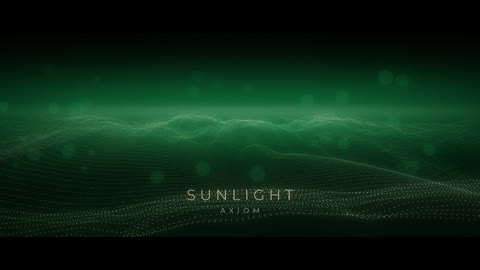
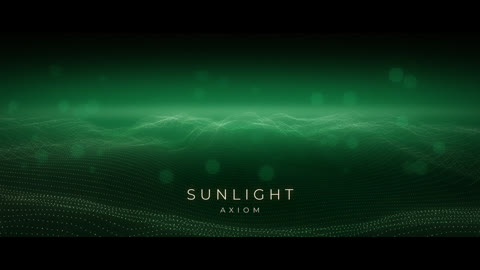
fix: thumbnails after the title fade-in; section beats judged against the whole song
- Preset thumbnails were taken 1 s into a 2 s clip, mid title fade-in and
  mid end fade. They now use a 6 s clip with the moment 3 s in.
- Hz beat ranges in a section were scaled to the section only. Sections now
  carry each range's whole-song scale (worked out by the template's toolkit).

diff --git a/templates/particle-horizon/assets/viz-toolkit.js b/templates/particle-horizon/assets/viz-toolkit.js
@@ -100,10 +100,10 @@
    * Hits and a decaying pulse from how much bands firstBand..lastBand rise each frame.
    * Returns {hits: [[time, strength], ...], pulse: Float32Array (one value per frame)}.
    */
-  function beatTrack(frames, fps, firstBand, lastBand) {
-    var n = frames.length;
-    var rise = new Float64Array(n);
-    for (var i = 1; i < n; i++) {
+  /** How much bands firstBand..lastBand rose since the previous frame, for every frame. */
+  function bandRises(frames, firstBand, lastBand) {
+    var rise = new Float64Array(frames.length);
+    for (var i = 1; i < frames.length; i++) {
       var sum = 0;
       for (var k = firstBand; k <= lastBand; k++) {
         var d = frames[i].b[k] - frames[i - 1].b[k];
@@ -111,8 +111,36 @@
       }
       rise[i] = sum;
     }
-    var scale = Math.max(percentile(rise, 99), 1e-6);
-    for (i = 0; i < n; i++) rise[i] /= scale;
+    return rise;
+  }
+
+  /** The bands a beat range covers, as [first, last]. */
+  function rangeBands(range) {
+    var first = Math.round(bandIndexForHz(range.low));
+    return [first, Math.max(first, Math.round(bandIndexForHz(range.high)))];
+  }
+
+  /**
+   * Each Hz beat range's loudness scale over a whole song. A section of a song carries these
+   * (analysis.beatScales), so its beats are judged against the whole song, as in a full render.
+   */
+  function beatScales(frames) {
+    var scales = {};
+    for (var r = 0; r < BEAT_RANGES.length; r++) {
+      var range = BEAT_RANGES[r];
+      if (range.value === "kick") continue;
+      var bands = rangeBands(range);
+      scales[range.value] = Math.max(percentile(bandRises(frames, bands[0], bands[1]), 99), 1e-6);
+    }
+    return scales;
+  }
+
+  function beatTrack(frames, fps, firstBand, lastBand, scale) {
+    var n = frames.length;
+    var rise = bandRises(frames, firstBand, lastBand);
+    // The bands' smoothed levels are used (the analyzer uses unsmoothed ones); the rule is the same.
+    scale = scale || Math.max(percentile(rise, 99), 1e-6);
+    for (var i = 0; i < n; i++) rise[i] /= scale;
 
     var total = new Float64Array(n + 1);
     for (i = 0; i < n; i++) total[i + 1] = total[i] + rise[i];
@@ -171,9 +199,9 @@
     if (!range) throw new Error("Unknown beat range: " + opts.beatRange);
     var track = null;
     if (range.value !== "kick") {
-      var first = Math.round(bandIndexForHz(range.low));
-      var lastBand = Math.max(first, Math.round(bandIndexForHz(range.high)));
-      track = beatTrack(frames, fps, first, lastBand);
+      var bands = rangeBands(range);
+      var scale = data.beatScales ? data.beatScales[range.value] : undefined;
+      track = beatTrack(frames, fps, bands[0], bands[1], scale);
     }
     var hitList = track ? track.hits : data.hits;
 
@@ -392,6 +420,7 @@
     bandIndexForHz: bandIndexForHz,
     BEAT_RANGES: BEAT_RANGES,
     beatTrack: beatTrack,
+    beatScales: beatScales,
     createAudio: createAudio,
   };
 });

diff --git a/templates/shared/viz-toolkit.js b/templates/shared/viz-toolkit.js
@@ -100,10 +100,10 @@
    * Hits and a decaying pulse from how much bands firstBand..lastBand rise each frame.
    * Returns {hits: [[time, strength], ...], pulse: Float32Array (one value per frame)}.
    */
-  function beatTrack(frames, fps, firstBand, lastBand) {
-    var n = frames.length;
-    var rise = new Float64Array(n);
-    for (var i = 1; i < n; i++) {
+  /** How much bands firstBand..lastBand rose since the previous frame, for every frame. */
+  function bandRises(frames, firstBand, lastBand) {
+    var rise = new Float64Array(frames.length);
+    for (var i = 1; i < frames.length; i++) {
       var sum = 0;
       for (var k = firstBand; k <= lastBand; k++) {
         var d = frames[i].b[k] - frames[i - 1].b[k];
@@ -111,8 +111,36 @@
       }
       rise[i] = sum;
     }
-    var scale = Math.max(percentile(rise, 99), 1e-6);
-    for (i = 0; i < n; i++) rise[i] /= scale;
+    return rise;
+  }
+
+  /** The bands a beat range covers, as [first, last]. */
+  function rangeBands(range) {
+    var first = Math.round(bandIndexForHz(range.low));
+    return [first, Math.max(first, Math.round(bandIndexForHz(range.high)))];
+  }
+
+  /**
+   * Each Hz beat range's loudness scale over a whole song. A section of a song carries these
+   * (analysis.beatScales), so its beats are judged against the whole song, as in a full render.
+   */
+  function beatScales(frames) {
+    var scales = {};
+    for (var r = 0; r < BEAT_RANGES.length; r++) {
+      var range = BEAT_RANGES[r];
+      if (range.value === "kick") continue;
+      var bands = rangeBands(range);
+      scales[range.value] = Math.max(percentile(bandRises(frames, bands[0], bands[1]), 99), 1e-6);
+    }
+    return scales;
+  }
+
+  function beatTrack(frames, fps, firstBand, lastBand, scale) {
+    var n = frames.length;
+    var rise = bandRises(frames, firstBand, lastBand);
+    // The bands' smoothed levels are used (the analyzer uses unsmoothed ones); the rule is the same.
+    scale = scale || Math.max(percentile(rise, 99), 1e-6);
+    for (var i = 0; i < n; i++) rise[i] /= scale;
 
     var total = new Float64Array(n + 1);
     for (i = 0; i < n; i++) total[i + 1] = total[i] + rise[i];
@@ -171,9 +199,9 @@
     if (!range) throw new Error("Unknown beat range: " + opts.beatRange);
     var track = null;
     if (range.value !== "kick") {
-      var first = Math.round(bandIndexForHz(range.low));
-      var lastBand = Math.max(first, Math.round(bandIndexForHz(range.high)));
-      track = beatTrack(frames, fps, first, lastBand);
+      var bands = rangeBands(range);
+      var scale = data.beatScales ? data.beatScales[range.value] : undefined;
+      track = beatTrack(frames, fps, bands[0], bands[1], scale);
     }
     var hitList = track ? track.hits : data.hits;
 
@@ -392,6 +420,7 @@
     bandIndexForHz: bandIndexForHz,
     BEAT_RANGES: BEAT_RANGES,
     beatTrack: beatTrack,
+    beatScales: beatScales,
     createAudio: createAudio,
   };
 });

diff --git a/src/lib/jobs.ts b/src/lib/jobs.ts
@@ -3,7 +3,9 @@
  * analysis in its fixed asset paths, its song-length durations set, and the chosen settings
  * applied. HyperFrames renders the folder as it is; the template itself is never modified.
  */
+import { existsSync } from "node:fs";
 import { cp, mkdir, readFile, writeFile } from "node:fs/promises";
+import { createRequire } from "node:module";
 import path from "node:path";
 import { type Analysis, isCurrentAnalysis, toAudioDataJs } from "@/lib/analysis";
 import type { RunCommand } from "@/lib/run-command";
@@ -93,6 +95,23 @@ export function sliceAnalysis(
   };
 }
 
+/**
+ * Beats in the Hz beat ranges are judged against the whole song's loudness. A section only
+ * holds part of the song, so it carries the whole song's scales, worked out by the template's
+ * own toolkit (templates without a toolkit get none).
+ */
+function wholeSongBeatScales(
+  template: Template,
+  full: Analysis,
+): { beatScales?: Record<string, number> } {
+  const toolkitPath = path.join(template.dir, "assets", "viz-toolkit.js");
+  if (!existsSync(toolkitPath)) return {};
+  const toolkit = createRequire(toolkitPath)(toolkitPath) as {
+    beatScales?: (frames: Analysis["frames"]) => Record<string, number>;
+  };
+  return toolkit.beatScales ? { beatScales: toolkit.beatScales(full.frames) } : {};
+}
+
 export type PrepareJobOptions = {
   template: Template;
   song: { wavPath: string; analysisPath: string };
@@ -140,7 +159,7 @@ export async function prepareJob(opts: PrepareJobOptions): Promise<PreparedJob> 
     if (start < 0 || start >= full.duration || end <= start) {
       throw new JobError(`The section must be inside the song (0 to ${full.duration} s)`);
     }
-    analysis = sliceAnalysis(full, start, end);
+    analysis = { ...sliceAnalysis(full, start, end), ...wholeSongBeatScales(opts.template, full) };
     // Trim with 50 ms fades so the cut doesn't click.
     const length = analysis.duration;
     const trim = await opts.run("ffmpeg", [

diff --git a/src/lib/viz-toolkit.test.ts b/src/lib/viz-toolkit.test.ts
@@ -217,3 +217,32 @@ describe("WebGL helpers", () => {
     expect(calls.texType).toBe(8);
   });
 });
+
+describe("Hz beat ranges in a section", () => {
+  it("find the same hits as the whole song, scaled against the whole song", () => {
+    // A loud passage early on, then a quieter passage with smaller bass rises.
+    const frames = Array.from({ length: 900 }, (_, i) => {
+      const loudPart = i < 450;
+      const onBeat = i % 15 === 0;
+      const level = onBeat ? (loudPart ? 1 : 0.3) : 0;
+      return frame({ b: Array.from({ length: 32 }, (_, k) => (k <= 5 ? level : 0)) });
+    });
+    const full = fakeAnalysis(frames);
+    const whole = viz.createAudio(full, { beatRange: "20-90" });
+    // The section 20–28 s with 6 s of pre-roll, as the job builder slices it.
+    const first = 14 * 30;
+    const part = {
+      ...fakeAnalysis(frames.slice(first, 28 * 30 + 1)),
+      duration: 8,
+      offset: 6,
+      beatScales: viz.beatScales(full.frames),
+    };
+    const section = viz.createAudio(part, { beatRange: "20-90" });
+    for (const t of [21, 23.5, 26]) {
+      expect(section.recentHits(t - 20, 3)).toEqual(
+        whole.recentHits(t, 3).map(([age, s]) => [expect.closeTo(age, 6), expect.closeTo(s, 6)]),
+      );
+      expect(section.sample(t - 20).beat).toBeCloseTo(whole.sample(t).beat, 6);
+    }
+  });
+});

diff --git a/scripts/thumbs.ts b/scripts/thumbs.ts
@@ -10,6 +10,7 @@ import { SAMPLE_SONG } from "../src/lib/sample-song";
 import { prepareSong } from "../src/lib/songs";
 import { ensureTemplateAssets } from "../src/lib/template-assets";
 import { loadTemplate, resolveValues } from "../src/lib/templates";
+import { thumbSection } from "../src/lib/thumbs";
 
 const USAGE = "Usage: npm run thumbs -- <template> [--song <file>] [--at <seconds>]";
 
@@ -53,11 +54,11 @@ async function main(): Promise<void> {
       presets.slice(i, i + 3).map(async (preset, j) => {
         const jobDir = path.join(work, String(i + j));
         const values = resolveValues(template, { preset: preset.name });
-        // Only the part of the song around the moment is needed for a still.
-        const section = { start: Math.max(0, at - 1), end: at + 1 };
+        // Only a few seconds around the moment are needed for a still.
+        const { start, end, local } = thumbSection(at, song.duration);
+        const section = { start, end };
         await prepareJob({ template, song, values, jobDir, section, run: runCommand });
         const snapDir = path.join(jobDir, "snap");
-        const local = at - section.start;
         await run("npx", [
           ...["hyperframes", "snapshot", `"${jobDir}"`, "--at", String(local), "--no-end"],
           ...["--json", "-o", `"${snapDir}"`],

diff --git a/src/lib/jobs.test.ts b/src/lib/jobs.test.ts
@@ -1,5 +1,5 @@
 import { existsSync } from "node:fs";
-import { mkdir, mkdtemp, readFile, writeFile } from "node:fs/promises";
+import { copyFile, mkdir, mkdtemp, readFile, writeFile } from "node:fs/promises";
 import os from "node:os";
 import path from "node:path";
 import { beforeEach, describe, expect, it } from "vitest";
@@ -252,6 +252,11 @@ describe("prepareJob with a section", () => {
       calls.push([cmd, ...args]);
       return ok;
     };
+    // The template's own toolkit works out each beat range's whole-song scale.
+    await copyFile(
+      path.join(process.cwd(), "templates", "shared", "viz-toolkit.js"),
+      path.join(template.dir, "assets", "viz-toolkit.js"),
+    );
     const jobDir = path.join(work, "section");
     const job = await prepareJob({
       template,
@@ -270,6 +275,7 @@ describe("prepareJob with a section", () => {
     expect(trim?.at(-1)).toBe(path.join(jobDir, "assets", "song.wav"));
     const data = await readFile(path.join(jobDir, "assets", "audio-data.js"), "utf8");
     expect(data).toContain('"offset":6');
+    expect(data).toMatch(/"beatScales":\{"20-90":[0-9.e-]+,/);
   });
 
   it("rejects a section outside the song", async () => {

diff --git a/src/lib/thumbs.test.ts b/src/lib/thumbs.test.ts
@@ -1,0 +1,24 @@
+import { describe, expect, it } from "vitest";
+import { thumbSection } from "@/lib/thumbs";
+
+// The template's title fades in until 1.9 s and the picture fades out over the last 2.5 s.
+const TITLE_DONE = 1.9;
+const FADE = 2.5;
+
+describe("thumbSection", () => {
+  it("captures after the title fade-in and before the end fade", () => {
+    const s = thumbSection(200, 252.4);
+    expect(s.local).toBeGreaterThanOrEqual(TITLE_DONE);
+    expect(s.local).toBeLessThanOrEqual(s.end - s.start - FADE);
+    expect(s.start + s.local).toBeCloseTo(200, 6);
+  });
+
+  it("stays inside the song near its edges", () => {
+    const early = thumbSection(1, 252.4);
+    expect(early.start).toBe(0);
+    expect(early.start + early.local).toBeCloseTo(1, 6);
+    const late = thumbSection(251, 252.4);
+    expect(late.end).toBeLessThanOrEqual(252.4);
+    expect(late.start + late.local).toBeCloseTo(251, 6);
+  });
+});

diff --git a/templates/shared/viz-toolkit.d.ts b/templates/shared/viz-toolkit.d.ts
@@ -9,6 +9,8 @@ export type ToolkitAnalysis = {
   hits: [number, number][];
   /** seconds of analysis kept before a section's start (0 for a whole song) */
   offset?: number;
+  /** for a section: each Hz beat range's scale over the whole song (see beatScales) */
+  beatScales?: Record<string, number>;
 };
 
 export type BeatRange = { value: string; label: string; low?: number; high?: number };
@@ -65,6 +67,8 @@ export interface VizToolkit {
     fps: number,
     firstBand: number,
     lastBand: number,
+    scale?: number,
   ): { hits: [number, number][]; pulse: Float32Array };
+  beatScales(frames: ToolkitAnalysis["frames"]): Record<string, number>;
   createAudio(data: ToolkitAnalysis, opts?: AudioOptions): ToolkitAudio;
 }

diff --git a/src/lib/thumbs.ts b/src/lib/thumbs.ts
@@ -1,0 +1,18 @@
+/**
+ * Preset thumbnails are snapshots of a short section of a song. A template's title fades in
+ * over its first 1.9 s and the picture fades out over its last 2.5 s, so the section is 6 s
+ * long with the moment 3 s in: after the title is fully in and before the fade-out starts.
+ */
+const SECTION_LENGTH = 6;
+
+export function thumbSection(
+  at: number,
+  songDuration: number,
+): { start: number; end: number; local: number } {
+  const start = Math.min(
+    Math.max(0, at - SECTION_LENGTH / 2),
+    Math.max(0, songDuration - SECTION_LENGTH),
+  );
+  const end = Math.min(songDuration, start + SECTION_LENGTH);
+  return { start, end, local: at - start };
+}

diff --git a/src/lib/analysis.ts b/src/lib/analysis.ts
@@ -28,6 +28,8 @@ export type Analysis = {
   hits: [number, number][];
   /** for a section of a song: seconds of analysis kept before the section's start */
   offset?: number;
+  /** for a section of a song: each Hz beat range's scale over the whole song */
+  beatScales?: Record<string, number>;
 };
 
 /** True for an analysis written by the current analyzer version. */
